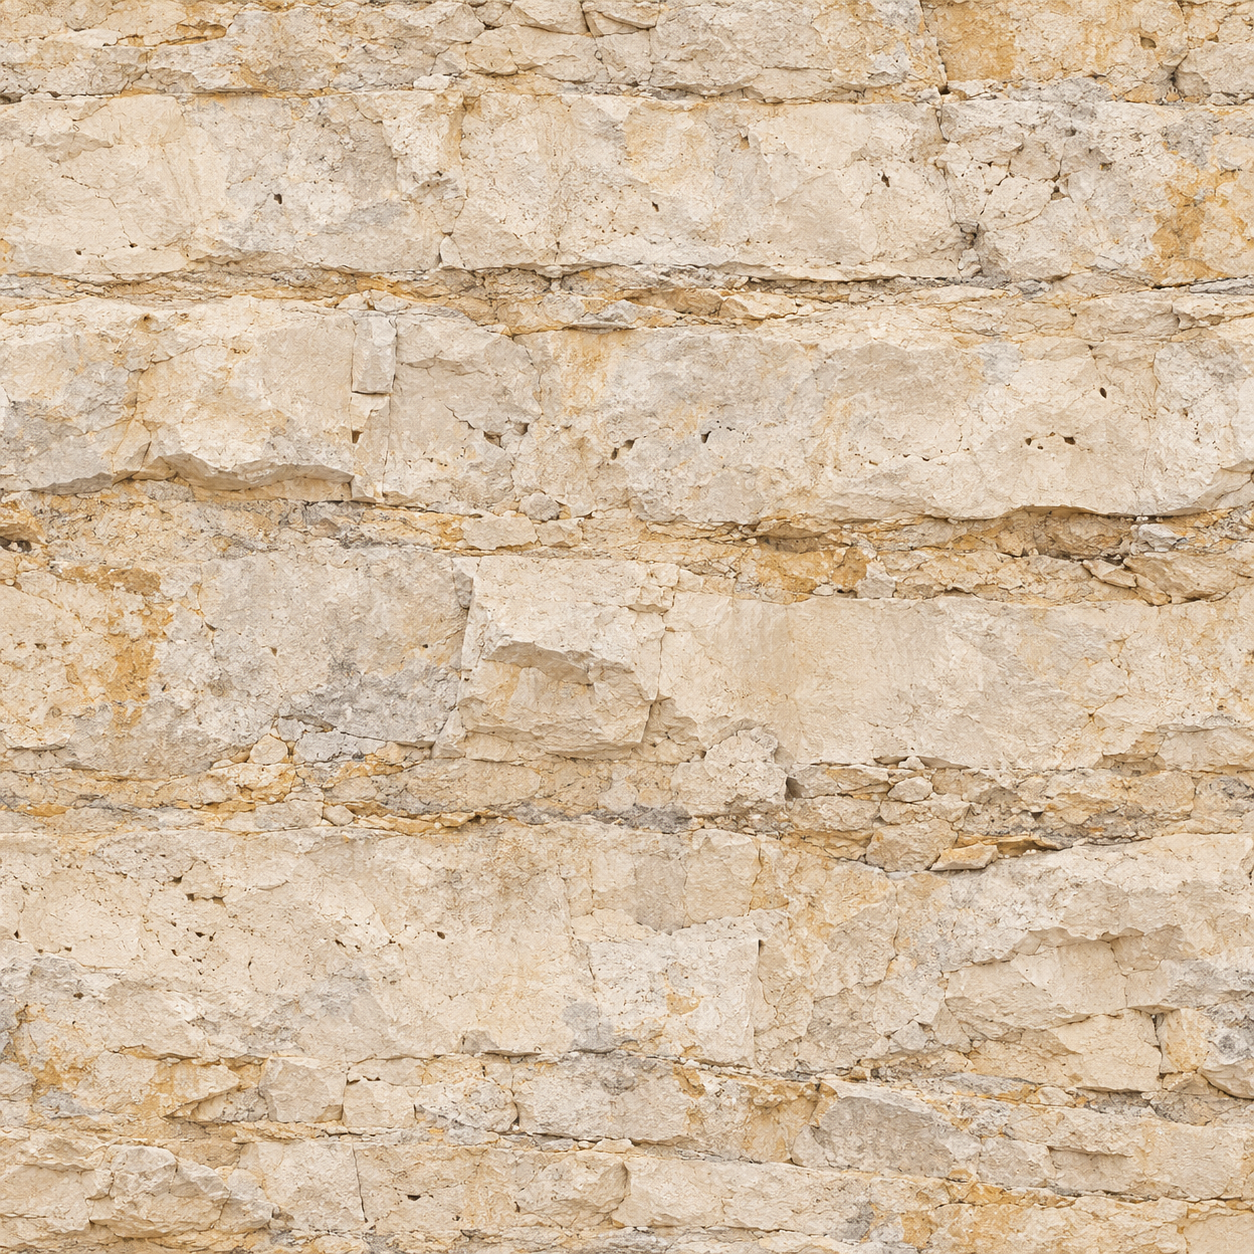
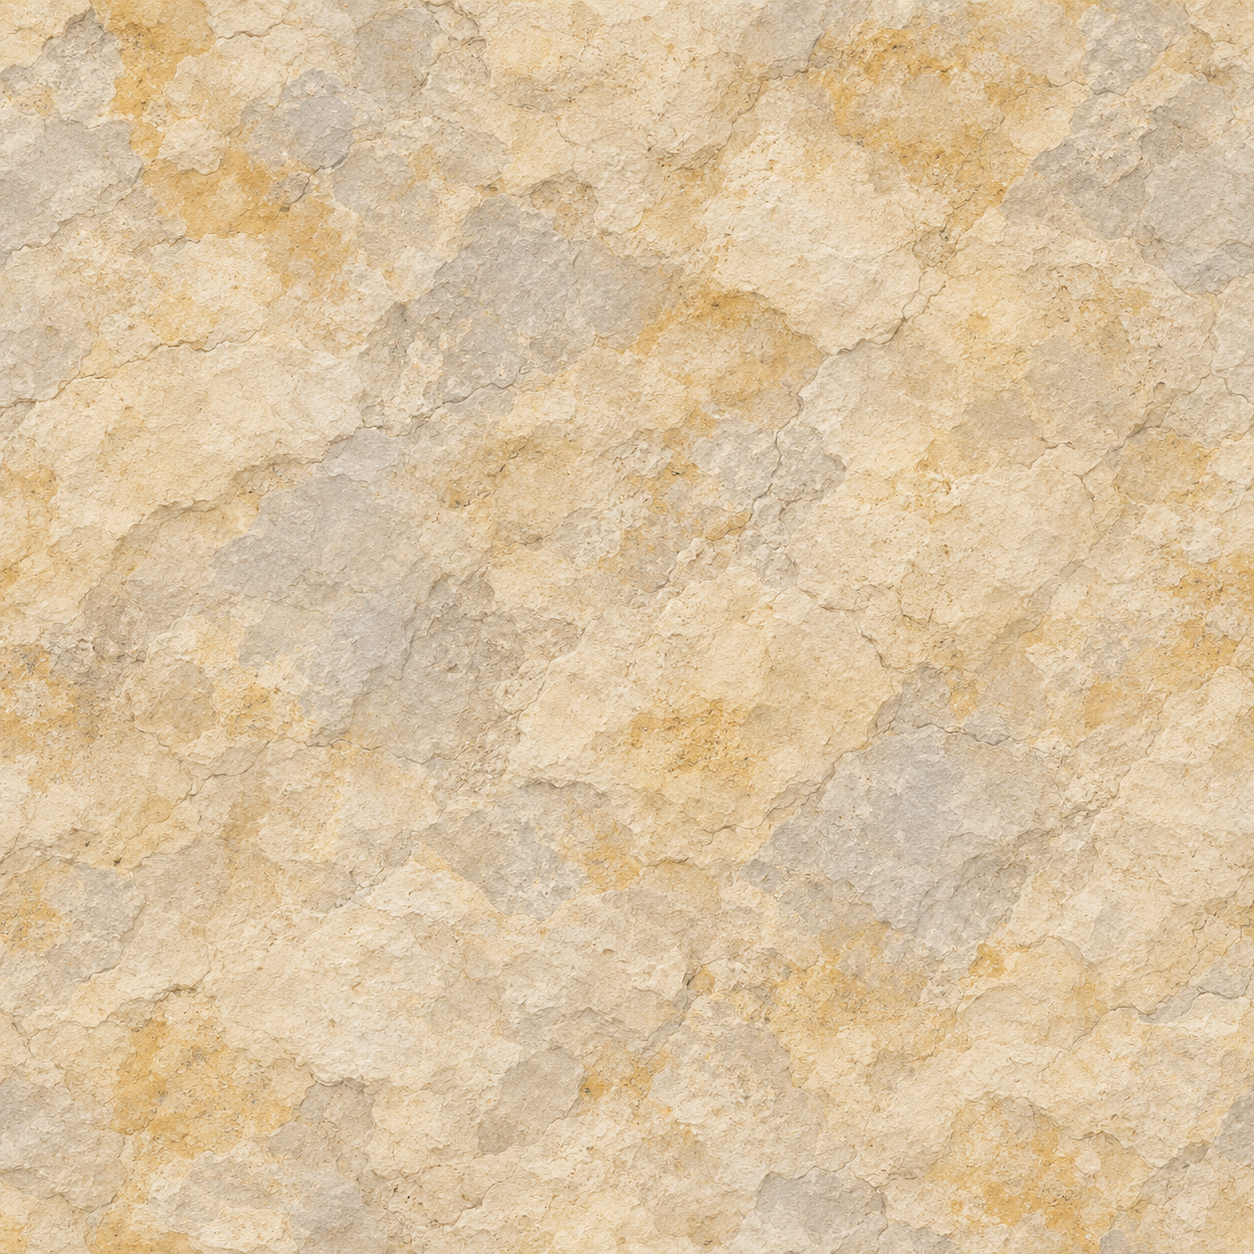
Refine quarry A2 material transitions and side lighting

diff --git a/unity/Assets/StarTournament/Runtime/Core/QuarryWarmProfile.cs b/unity/Assets/StarTournament/Runtime/Core/QuarryWarmProfile.cs
@@ -7,20 +7,30 @@ namespace StarTournament.ProvingGround
             // Named revision-6 presentation metadata; no authoring coordinates or simulation values change.
             void Add(string key,string title,string description,string unit,float min,float max,float step,float value)
                 =>p.Add("quarry.warm."+key,"quarry-warm-limestone-a",title,description,unit,min,max,step,value);
-            Add("stoneTile","Масштаб известняка","Размер текстуры породы в мировых метрах.","m",1,12,.25f,6);
+            Add("stoneTile","Масштаб известняка","Размер текстуры породы в мировых метрах.","m",1,12,.25f,8);
             Add("gravelTile","Масштаб щебня","Размер текстуры утрамбованного грунта.","m",1,12,.25f,5);
             Add("relief","Рельеф поверхности","Сила мелкого рельефа материала без изменения коллизий.","m",0,.3f,.005f,.02f);
             Add("metalSmoothness","Гладкость стали","Блики потёртого металла и окрашенной техники.","ratio",0,1,.01f,.32f);
             Add("metallic","Металлический отклик","Отражение стальных и окрашенных деталей.","ratio",0,1,.01f,.45f);
             Add("paintMetallic","Металл под краской","Мягкий отклик окрашенного корпуса техники.","ratio",0,1,.01f,.08f);
             Add("glassSmoothness","Стекло кабины","Гладкость окон погрузчика и мастерской.","ratio",0,1,.01f,.7f);
-            Add("sun","Солнце A","Сила тёплого дневного света.","intensity",0,5,.05f,1.1f);
-            Add("sunElevation","Высота солнца","Высота дневного света над карьером.","degrees",15,85,1,48);
-            Add("sunAzimuth","Направление солнца","Азимут теней существующих объектов.","degrees",-180,180,1,-38);
+            Add("sun","Солнце A","Сила тёплого дневного света.","intensity",0,5,.05f,1.3f);
+            Add("sunElevation","Высота солнца","Высота дневного света над карьером.","degrees",15,85,1,36);
+            Add("sunAzimuth","Направление солнца","Азимут теней существующих объектов.","degrees",-180,180,1,35);
             Add("shadowStrength","Плотность тени","Контраст опор и объём скал без затемнения маршрутов.","ratio",0,1,.05f,.75f);
+            Add("patchScale","Размер пятен породы","Масштаб общего рисунка камня и грунта на соседних площадках.","m",2,24,.5f,9);
+            Add("blendWidth","Мягкость перехода","Ширина смешения камня и щебня в маске материала.","ratio",.05f,.5f,.01f,.24f);
+            Add("dustReach","Пыль на настиле","Ширина неоднородного пылевого перехода от камня к стали.","m",1,12,.5f,5);
+            Add("fillRed","Заполнение R","Красная составляющая прохладного света неба.","ratio",0,1,.01f,.86f);
+            Add("fillGreen","Заполнение G","Зелёная составляющая прохладного света неба.","ratio",0,1,.01f,.92f);
+            Add("fillBlue","Заполнение B","Синяя составляющая прохладного света неба.","ratio",0,1,.01f,1);
+            Add("shadowDistance","Дальность теней карьера","Тени уступов на дальних видах; применяется только к временному профилю карьера.","m",50,200,5,180);
+            Add("shadowCascades","Каскады теней А2","Сохраняют точность у камеры при дальних тенях карьера.","count",1,4,1,4);
+            Add("shadowBias","Смещение тени А2","Убирает полосы самозатенения при боковом свете на протяжённых стенах.","ratio",0,2,.01f,.12f);
+            Add("shadowNormalBias","Смещение по нормали А2","Стабилизирует тень уступов без увеличения shadow atlas.","ratio",0,2,.05f,.6f);
             Add("sunRed","Солнце R","Красная составляющая дневного света.","ratio",0,1,.01f,1);
-            Add("sunGreen","Солнце G","Зелёная составляющая дневного света.","ratio",0,1,.01f,.95f);
-            Add("sunBlue","Солнце B","Синяя составляющая дневного света.","ratio",0,1,.01f,.86f);
+            Add("sunGreen","Солнце G","Зелёная составляющая дневного света.","ratio",0,1,.01f,.93f);
+            Add("sunBlue","Солнце B","Синяя составляющая дневного света.","ratio",0,1,.01f,.8f);
         }
     }
 }

diff --git a/unity/Assets/StarTournament/Tests/PlayMode/QuarryArenaMatchTests.cs b/unity/Assets/StarTournament/Tests/PlayMode/QuarryArenaMatchTests.cs
@@ -63,7 +63,7 @@ namespace StarTournament.ProvingGround.Tests.PlayMode
                 Assert.That(warm.GetComponentsInChildren<Collider>().Length,Is.Zero,"Art cannot add collision");
                 var textures=active.SelectMany(r=>r.sharedMaterials).Distinct().Select(m=>m.HasProperty("_BaseMap")?m.GetTexture("_BaseMap"):null).Where(t=>t&&t.name!="Font Texture").Distinct().ToArray();
                 Assert.That(active.SelectMany(r=>r.sharedMaterials).Where(m=>m.name.StartsWith("Quarry warm A")).All(m=>m.shader.isSupported),Is.True);
-                File.WriteAllText(Path.Combine(DirectoryPath,"warm-art-costs.json"),JsonUtility.ToJson(new WarmCosts{identity=QuarryWarmArt.Identity,textureCount=textures.Length,textureBytes=textures.Sum(t=>UnityEngine.Profiling.Profiler.GetRuntimeMemorySizeLong(t)),uncombinedFittingParts=warm.UncombinedPartCount,fittingRenderers=warm.GroupedRendererCount,colliders=arena.GetComponentsInChildren<Collider>().Length,localLights=arena.GetComponentsInChildren<Light>().Length,localShadowLights=arena.GetComponentsInChildren<Light>().Count(l=>l.shadows!=LightShadows.None)},true));
+                File.WriteAllText(Path.Combine(DirectoryPath,"warm-art-costs.json"),JsonUtility.ToJson(new WarmCosts{identity=QuarryWarmArt.Identity,shadowDistance=((UnityEngine.Rendering.Universal.UniversalRenderPipelineAsset)GraphicsSettings.currentRenderPipeline).shadowDistance,shadowCascades=((UnityEngine.Rendering.Universal.UniversalRenderPipelineAsset)GraphicsSettings.currentRenderPipeline).shadowCascadeCount,ambient=RenderSettings.ambientLight,textureCount=textures.Length,textureBytes=textures.Sum(t=>UnityEngine.Profiling.Profiler.GetRuntimeMemorySizeLong(t)),uncombinedFittingParts=warm.UncombinedPartCount,fittingRenderers=warm.GroupedRendererCount,colliders=arena.GetComponentsInChildren<Collider>().Length,localLights=arena.GetComponentsInChildren<Light>().Length,localShadowLights=arena.GetComponentsInChildren<Light>().Count(l=>l.shadows!=LightShadows.None)},true));
                 camera.fieldOfView=70;
                 var eyes=new[]{new Vector3(38,1.7f,-32),new Vector3(38,5.7f,-5),new Vector3(-6,1.7f,-23),new Vector3(19,1.7f,-7),new Vector3(-6,1.7f,-7),new Vector3(10,9.7f,22),new Vector3(-13,1.7f,-32),new Vector3(0,5.7f,-1),new Vector3(16,9.7f,23),new Vector3(-19,1.7f,-32)};
                 var targets=new[]{new Vector3(38,7,21),new Vector3(38,9,24),new Vector3(-6,2,-10),new Vector3(14,2,4),new Vector3(-6,1.7f,4),new Vector3(0,2,-22),new Vector3(-24,6,14),new Vector3(0,6,20),new Vector3(24,10.5f,36),new Vector3(-11,2,-23)};
@@ -77,6 +77,17 @@ namespace StarTournament.ProvingGround.Tests.PlayMode
                         warm.UseGrouped(true);chunks.UseChunks(true);
                     }
                     Capture(camera,names[i]);
+                    if(names[i]=="tunnel-inside")
+                    {
+                        var pipeline=(UnityEngine.Rendering.Universal.UniversalRenderPipelineAsset)GraphicsSettings.currentRenderPipeline;
+                        float distance=pipeline.shadowDistance;int cascades=pipeline.shadowCascadeCount;
+                        try
+                        {
+                            pipeline.shadowDistance=50;Capture(camera,"tunnel-shadow-distance-50");
+                            pipeline.shadowDistance=distance;pipeline.shadowCascadeCount=4;Capture(camera,"tunnel-shadow-cascades-4");
+                        }
+                        finally{pipeline.shadowDistance=distance;pipeline.shadowCascadeCount=cascades;}
+                    }
                 }
                 camera.fieldOfView=65;
                 cameraGo.transform.position=new Vector3(-30,1.7f,-35);cameraGo.transform.LookAt(new Vector3(-20,1.8f,-25));Capture(camera,"open-lower-cover");
@@ -103,7 +114,7 @@ namespace StarTournament.ProvingGround.Tests.PlayMode
             var preview=option.GetComponentInChildren<ArenaPreviewGraphic>();Assert.That(preview.texture,Is.SameAs(Resources.Load<Texture2D>("MapMenuArt/"+QuarryArenaCatalog.Id)));
             yield return EditorUiCapture.Capture(ground,Path.Combine(DirectoryPath,"map-picker-final.png"),1920,1080);
         }
-        [Serializable] sealed class WarmCosts {public string identity;public int textureCount,uncombinedFittingParts,fittingRenderers,colliders,localLights,localShadowLights;public long textureBytes;}
+        [Serializable] sealed class WarmCosts {public string identity;public float shadowDistance;public int shadowCascades;public Color ambient;public int textureCount,uncombinedFittingParts,fittingRenderers,colliders,localLights,localShadowLights;public long textureBytes;}
         [Serializable] sealed class Optimization {public int solids,sourceRenderers,activeRenderers,staticBatched,materials,unreferencedMeshes;public long sourceTriangles;}
     }
 }

diff --git a/unity/Assets/StarTournament/Runtime/Arena/QuarryArenaPresentation.cs b/unity/Assets/StarTournament/Runtime/Arena/QuarryArenaPresentation.cs
@@ -2,11 +2,13 @@ using System.Collections.Generic;
 using System.Linq;
 using UnityEngine;
 using UnityEngine.Rendering;
+using UnityEngine.Rendering.Universal;
 namespace StarTournament.ProvingGround
 {
     public sealed class QuarryArenaPresentation : MonoBehaviour
     {
         readonly List<Material> materials=new List<Material>();Mesh markings,arrows;
+        RenderPipelineAsset priorPipeline;UniversalRenderPipelineAsset warmPipeline;
         Color oldAmbient;AmbientMode oldMode;bool ownsAmbient;Font signFont;Material fontMaterial;
         Material Make(ProvingProfile p,int i)
         {
@@ -31,7 +33,20 @@ namespace StarTournament.ProvingGround
                 palette[5].SetColor("_BaseColor",palette[7].color);
                 palette[1].SetColor("_BaseColor",palette[11].color);
             }
-            if(QuarryWarmArt.Applies(definition))QuarryWarmArt.ConfigureMaterials(palette,profile);
+            if(QuarryWarmArt.Applies(definition))
+            {
+                QuarryWarmArt.ConfigureMaterials(palette,profile,definition);
+                RenderSettings.ambientLight=new Color(profile.Get("quarry.warm.fillRed"),profile.Get("quarry.warm.fillGreen"),profile.Get("quarry.warm.fillBlue"))*profile.Get("quarry.art.ambient");
+                // Own a transient map-local pipeline, following the Well presentation ownership pattern.
+                // Preserve quality and shadow atlas resolution and never serialize into project settings.
+                if(GraphicsSettings.currentRenderPipeline is UniversalRenderPipelineAsset pipeline)
+                {
+                    priorPipeline=QualitySettings.renderPipeline;warmPipeline=Instantiate(pipeline);warmPipeline.name="Quarry A2 lighting (owned)";
+                    warmPipeline.shadowDistance=profile.Get("quarry.warm.shadowDistance");
+                    // The labelled QuarryShadowBuildVariants asset retains the cascade shader keyword in Player builds.
+                    warmPipeline.shadowCascadeCount=Mathf.RoundToInt(profile.Get("quarry.warm.shadowCascades"));QualitySettings.renderPipeline=warmPipeline;
+                }
+            }
             var lookup=new ArenaPresentationLookup(transform.parent);
             foreach(var solid in definition.Solids)
             {
@@ -85,6 +100,6 @@ namespace StarTournament.ProvingGround
             if(QuarryWarmArt.Applies(definition))QuarryWarmArt.ConfigureDaylight(sun,p);
         }
         void RefreshFont(Font font){if(font==signFont&&fontMaterial)fontMaterial.mainTexture=font.material.mainTexture;}
-        void OnDestroy(){Font.textureRebuilt-=RefreshFont;if(ownsAmbient){RenderSettings.ambientMode=oldMode;RenderSettings.ambientLight=oldAmbient;}if(markings)DestroyImmediate(markings);if(arrows)DestroyImmediate(arrows);foreach(var material in materials)if(material)DestroyImmediate(material);}
+        void OnDestroy(){if(warmPipeline){if(QualitySettings.renderPipeline==warmPipeline)QualitySettings.renderPipeline=priorPipeline;DestroyImmediate(warmPipeline);}Font.textureRebuilt-=RefreshFont;if(ownsAmbient){RenderSettings.ambientMode=oldMode;RenderSettings.ambientLight=oldAmbient;}if(markings)DestroyImmediate(markings);if(arrows)DestroyImmediate(arrows);foreach(var material in materials)if(material)DestroyImmediate(material);}
     }
 }

diff --git a/unity/Assets/StarTournament/Tests/PlayMode/QuarryWarmArtLifecycleTests.cs b/unity/Assets/StarTournament/Tests/PlayMode/QuarryWarmArtLifecycleTests.cs
@@ -3,6 +3,8 @@ using System.Linq;
 using NUnit.Framework;
 using UnityEngine;
 using UnityEngine.TestTools;
+using UnityEngine.Rendering;
+using UnityEngine.Rendering.Universal;
 using Object=UnityEngine.Object;
 namespace StarTournament.ProvingGround.Tests.PlayMode
 {
@@ -11,10 +13,21 @@ namespace StarTournament.ProvingGround.Tests.PlayMode
         [UnityTest] public IEnumerator WarmFittingsPreserveSolidsAndReleaseMeshes()
         {
             var root=new GameObject("Quarry art lifecycle");var arena=root.AddComponent<ProvingArena>();var movement=ProvingProfile.CreateDefault();
+            var priorPipeline=QualitySettings.renderPipeline;var priorActive=GraphicsSettings.currentRenderPipeline as UniversalRenderPipelineAsset;
+            float priorDistance=priorActive?priorActive.shadowDistance:0;
+            var priorAmbient=RenderSettings.ambientLight;var priorMode=RenderSettings.ambientMode;
             try
             {
                 var frozen=AuthoredArenaCatalog.Freeze(QuarryArenaCatalog.Id,movement);arena.Build(frozen,movement);yield return null;
                 frozen.RequireDefinition(arena.Definition);
+                var ownedPipeline=QualitySettings.renderPipeline as UniversalRenderPipelineAsset;
+                if(priorActive)
+                {
+                    Assert.That(ownedPipeline,Is.Not.SameAs(priorActive));
+                    Assert.That(ownedPipeline.shadowDistance,Is.EqualTo(ProvingProfile.CreateQuarryAuthoring(frozen.Definition).Get("quarry.warm.shadowDistance")));
+                    Assert.That(ownedPipeline.shadowCascadeCount,Is.EqualTo(4));
+                    Assert.That(priorActive.shadowDistance,Is.EqualTo(priorDistance),"Do not mutate shared quality asset");
+                }
                 var warm=root.GetComponentInChildren<QuarryWarmDetails>();Assert.That(warm,Is.Not.Null);
                 Assert.That(warm.GetComponentsInChildren<Collider>(),Is.Empty);
                 Assert.That(ArenaMeshResidency.ReadUnreferencedOwnedMeshes(root.transform),Is.Empty);
@@ -31,6 +44,10 @@ namespace StarTournament.ProvingGround.Tests.PlayMode
                 var materials=root.GetComponentsInChildren<MeshRenderer>().SelectMany(r=>r.sharedMaterials).Where(m=>m&&m.name.StartsWith("Quarry warm A")).Distinct().ToArray();
                 Assert.That(materials.Length,Is.GreaterThan(0));
                 arena.ClearProjection();yield return null;
+                Assert.That(QualitySettings.renderPipeline,Is.SameAs(priorPipeline),"Restore prior quality on map teardown");
+                if(priorActive)Assert.That(!ownedPipeline,Is.True,"Release transient lighting pipeline");
+                Assert.That(RenderSettings.ambientMode,Is.EqualTo(priorMode));
+                Assert.That(RenderSettings.ambientLight,Is.EqualTo(priorAmbient));
                 Assert.That(meshes.All(m=>!m),Is.True,"Generated fitting meshes released on clear");
                 Assert.That(materials.All(m=>!m),Is.True,"Warm materials released on clear");
                 // Historical authoring profile retains its pre-A palette and parameter set.

diff --git a/unity/Assets/StarTournament/Runtime/Arena/QuarryWarmArt.cs b/unity/Assets/StarTournament/Runtime/Arena/QuarryWarmArt.cs
@@ -1,12 +1,13 @@
 using UnityEngine;
+using System.Linq;
 namespace StarTournament.ProvingGround
 {
     // Presentation-only revision. Map solids and historical authoring snapshots are not rewritten.
     public static class QuarryWarmArt
     {
-        public const string Identity="quarry-warm-limestone-a@1";
+        public const string Identity="quarry-warm-limestone-a2@2";
         public static bool Applies(ArenaDefinition d)=>d.MapId==QuarryArenaCatalog.Id&&d.Revision=="6";
-        public static void ConfigureMaterials(Material[] palette,ProvingProfile p)
+        public static void ConfigureMaterials(Material[] palette,ProvingProfile p,ArenaDefinition definition)
         {
             var shader=Shader.Find("StarTournament/QuarryWarmSurface");
             var stone=Resources.Load<Texture2D>("QuarryWarmArt/limestone");
@@ -18,6 +19,14 @@ namespace StarTournament.ProvingGround
                 m.SetFloat("_Scale",p.Get(mode==1?"quarry.warm.gravelTile":"quarry.warm.stoneTile"));
                 m.SetFloat("_Relief",p.Get("quarry.warm.relief"));m.SetFloat("_Smoothness",smooth);m.SetFloat("_Metallic",metal);
                 if(texture)m.SetTexture("_BaseMap",texture);
+                m.SetTexture("_StoneMap",stone);m.SetTexture("_GravelMap",gravel);
+                m.SetFloat("_StoneScale",p.Get("quarry.warm.stoneTile"));m.SetFloat("_GravelScale",p.Get("quarry.warm.gravelTile"));
+                m.SetFloat("_PatchScale",p.Get("quarry.warm.patchScale"));m.SetFloat("_BlendWidth",p.Get("quarry.warm.blendWidth"));
+                m.SetFloat("_DustReach",p.Get("quarry.warm.dustReach"));
+                // Only the existing upper floor receives the terrain-to-steel fringe; machine panels do not.
+                m.SetFloat("_Deck",i==5?1:0);
+                var upper=definition.Solids.Single(s=>s.Id=="upper-excavation");
+                m.SetFloat("_DeckEdge",upper.Position.z-upper.Size.z*.5f);
             }
             float matte=p.Get("quarry.art.smoothness"),metalSmooth=p.Get("quarry.warm.metalSmoothness");
             float metal=p.Get("quarry.warm.metallic");
@@ -31,6 +40,7 @@ namespace StarTournament.ProvingGround
         {
             sun.intensity=p.Get("quarry.warm.sun");sun.color=new Color(p.Get("quarry.warm.sunRed"),p.Get("quarry.warm.sunGreen"),p.Get("quarry.warm.sunBlue"));
             sun.transform.rotation=Quaternion.Euler(p.Get("quarry.warm.sunElevation"),p.Get("quarry.warm.sunAzimuth"),0);
+            sun.shadowBias=p.Get("quarry.warm.shadowBias");sun.shadowNormalBias=p.Get("quarry.warm.shadowNormalBias");
             sun.shadowStrength=p.Get("quarry.warm.shadowStrength");sun.shadows=LightShadows.Soft;
         }
     }

diff --git a/unity/Assets/StarTournament/Tests/EditMode/QuarryWarmArtTests.cs b/unity/Assets/StarTournament/Tests/EditMode/QuarryWarmArtTests.cs
@@ -15,7 +15,7 @@ namespace StarTournament.ProvingGround.Tests
                 Assert.That(ProvingProfile.CreateQuarryAuthoring(old).Descriptors.Any(x=>x.Path.StartsWith("quarry.warm.")),Is.False);
             }
             var p=ProvingProfile.CreateQuarryAuthoring(d);Assert.That(p.Validate(),Is.Empty);
-            Assert.That(p.Descriptors.Count(x=>x.Path.StartsWith("quarry.warm.")),Is.EqualTo(14));
+            Assert.That(p.Descriptors.Count(x=>x.Path.StartsWith("quarry.warm.")),Is.EqualTo(24));
             foreach(string name in new[]{"limestone","gravel"})
             {
                 var texture=Resources.Load<Texture2D>("QuarryWarmArt/"+name);Assert.That(texture,Is.Not.Null);
@@ -23,6 +23,9 @@ namespace StarTournament.ProvingGround.Tests
                 Assert.That(texture.mipmapCount,Is.GreaterThan(1));Assert.That(texture.isReadable,Is.False);
                 Assert.That(texture.wrapMode,Is.EqualTo(TextureWrapMode.Repeat));
             }
+            var variants=AssetDatabase.LoadAssetAtPath<UnityEngine.Rendering.Universal.UniversalRenderPipelineAsset>("Assets/StarTournament/Settings/QuarryShadowBuildVariants.asset");
+            Assert.That(variants,Is.Not.Null);Assert.That(variants.shadowCascadeCount,Is.EqualTo(4));
+            Assert.That(AssetDatabase.GetLabels(variants),Does.Contain("StarTournament.RuntimePipeline"),"Retain the runtime cascade shader variant for builds");
             var shader=Shader.Find("StarTournament/QuarryWarmSurface");Assert.That(shader,Is.Not.Null);
             Assert.That(ShaderUtil.ShaderHasError(shader),Is.False);
         }
